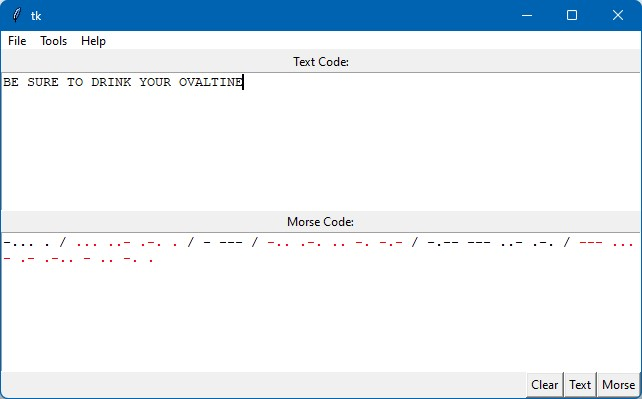
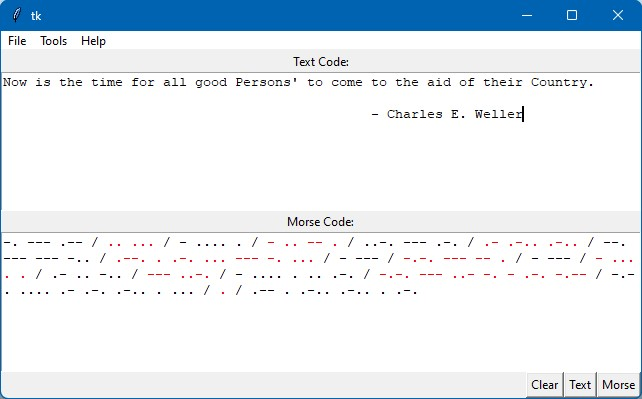
Updated current version in README.md and new example image

diff --git a/README.md b/README.md
@@ -3,7 +3,7 @@ References:
  - https://github.com/othneildrew/Best-README-Template
 -->
 <a id="readme-top"></a>
-# Morris v1.1
+# Morris v1.0.5
 <p align="center">
   <img src="Morris-Example.jpg" alt="Morris GUI Example">
 </p>
